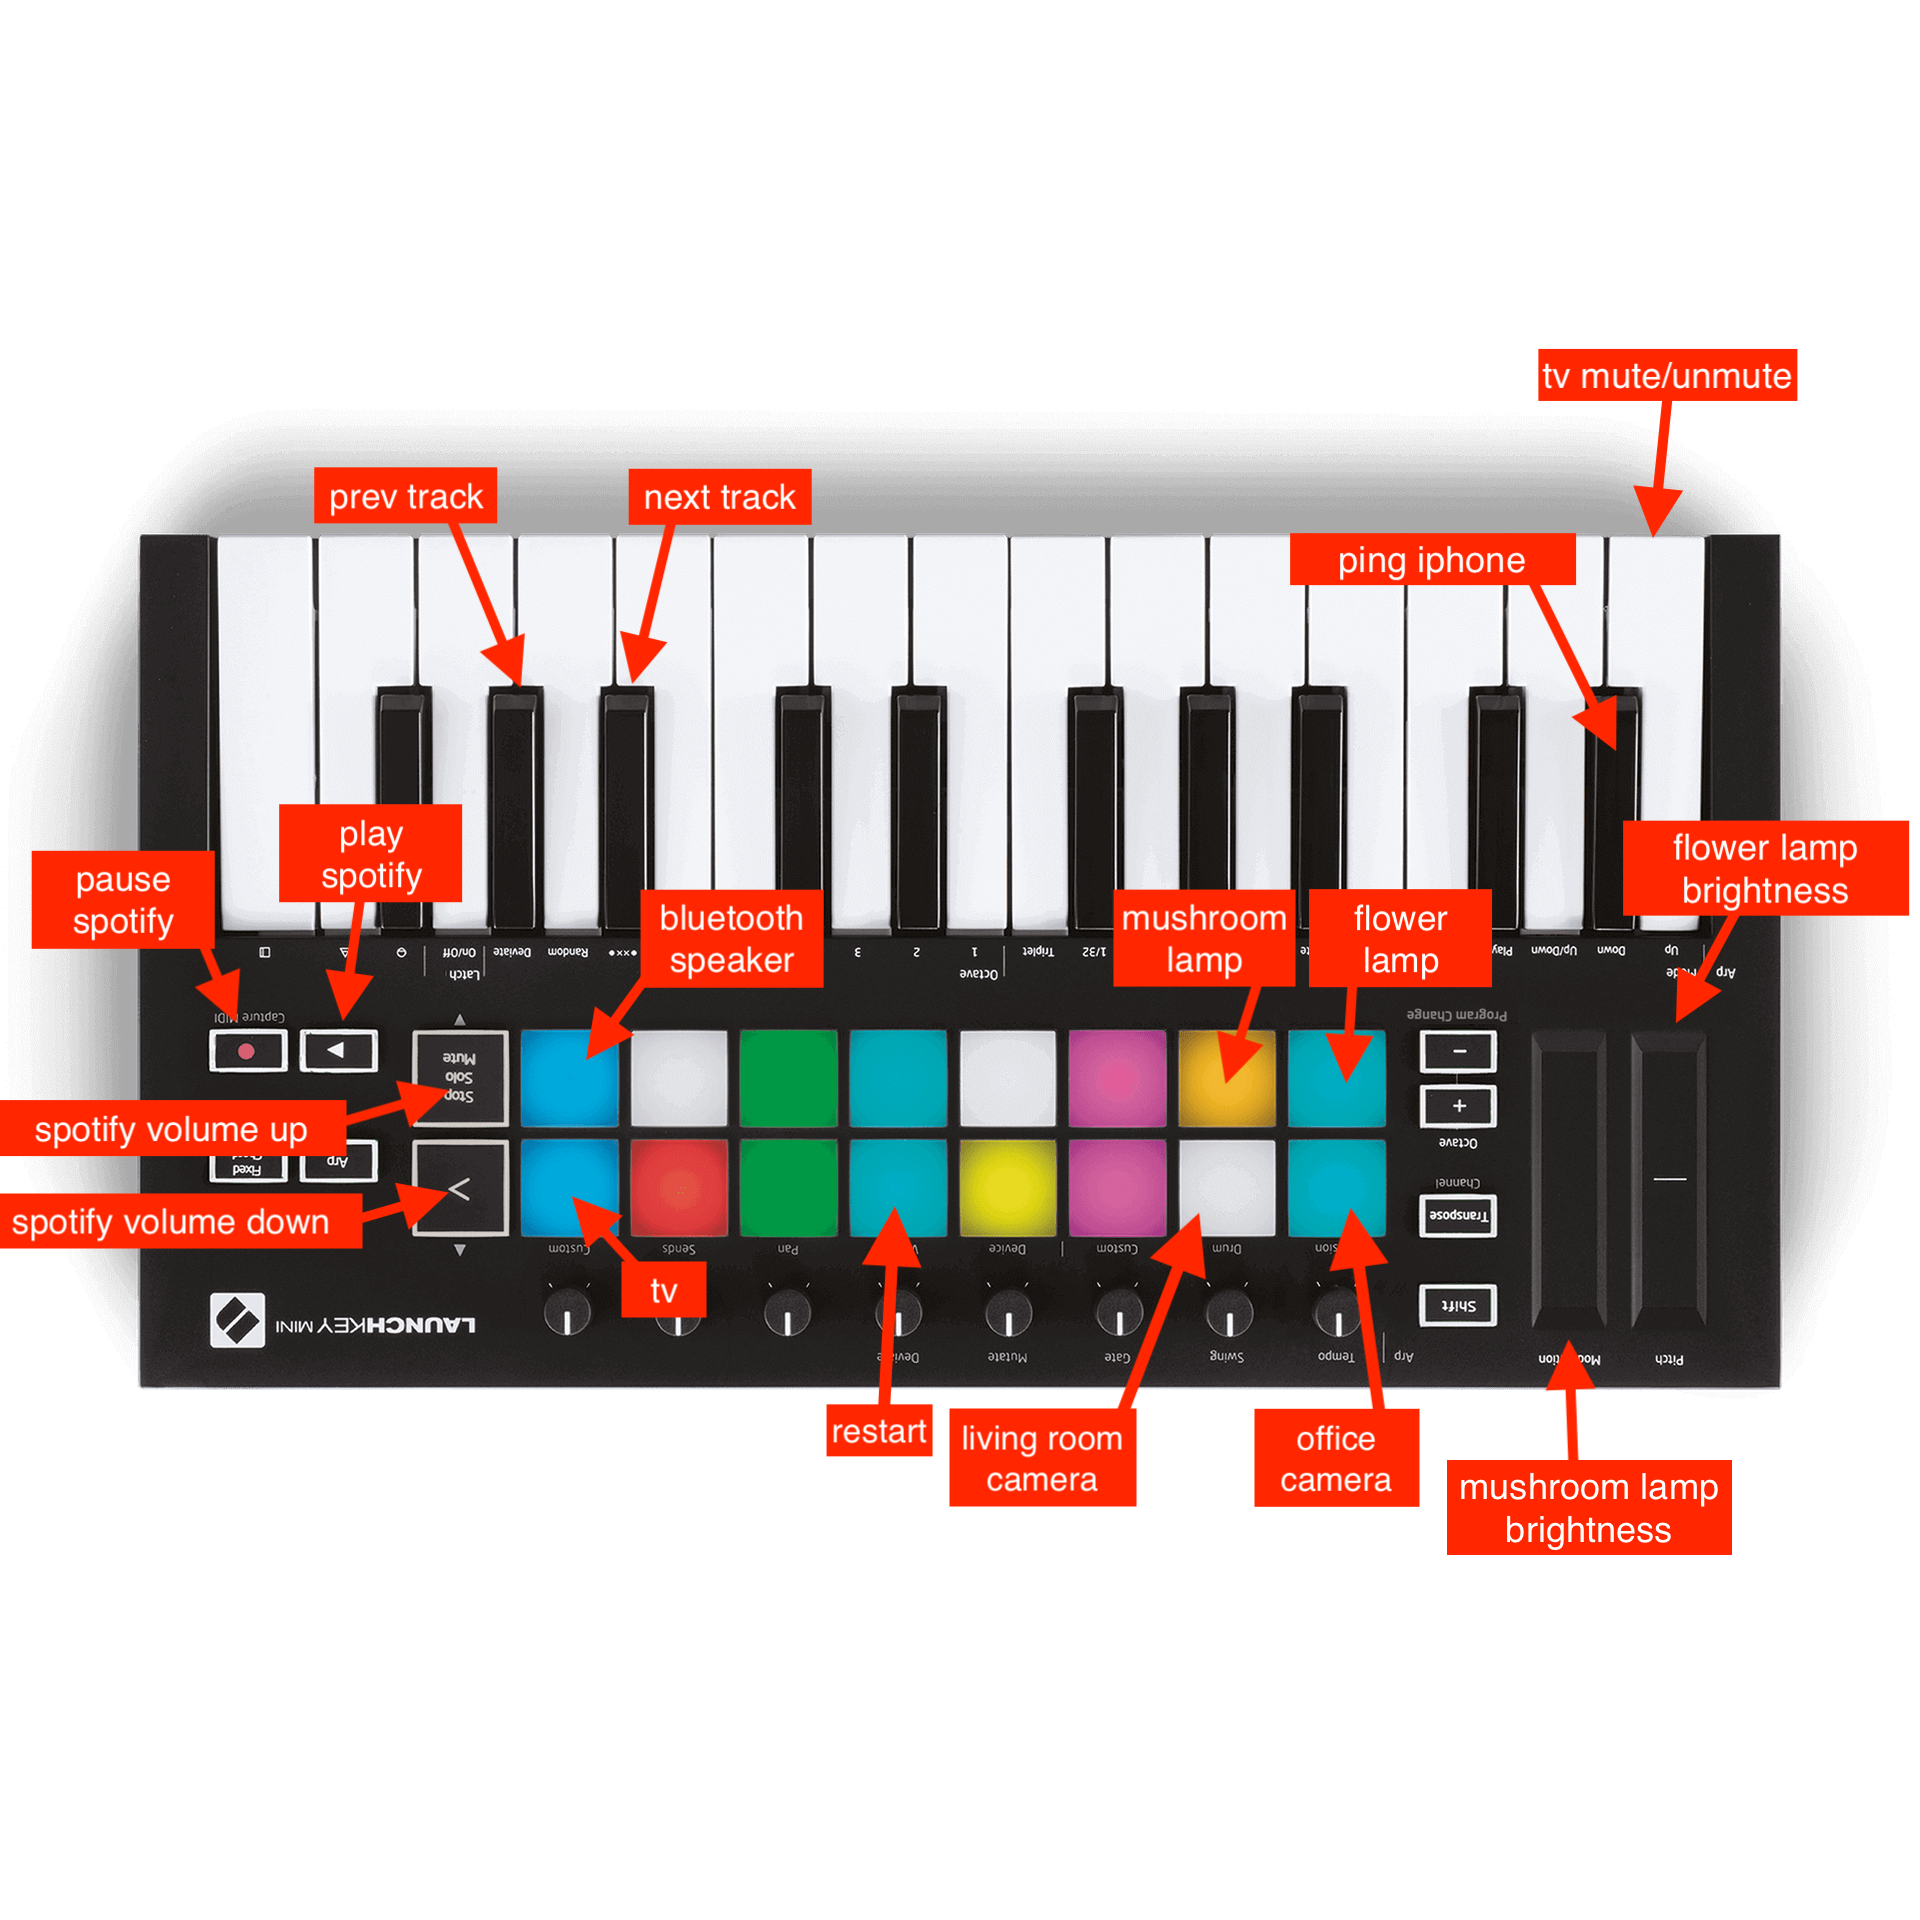
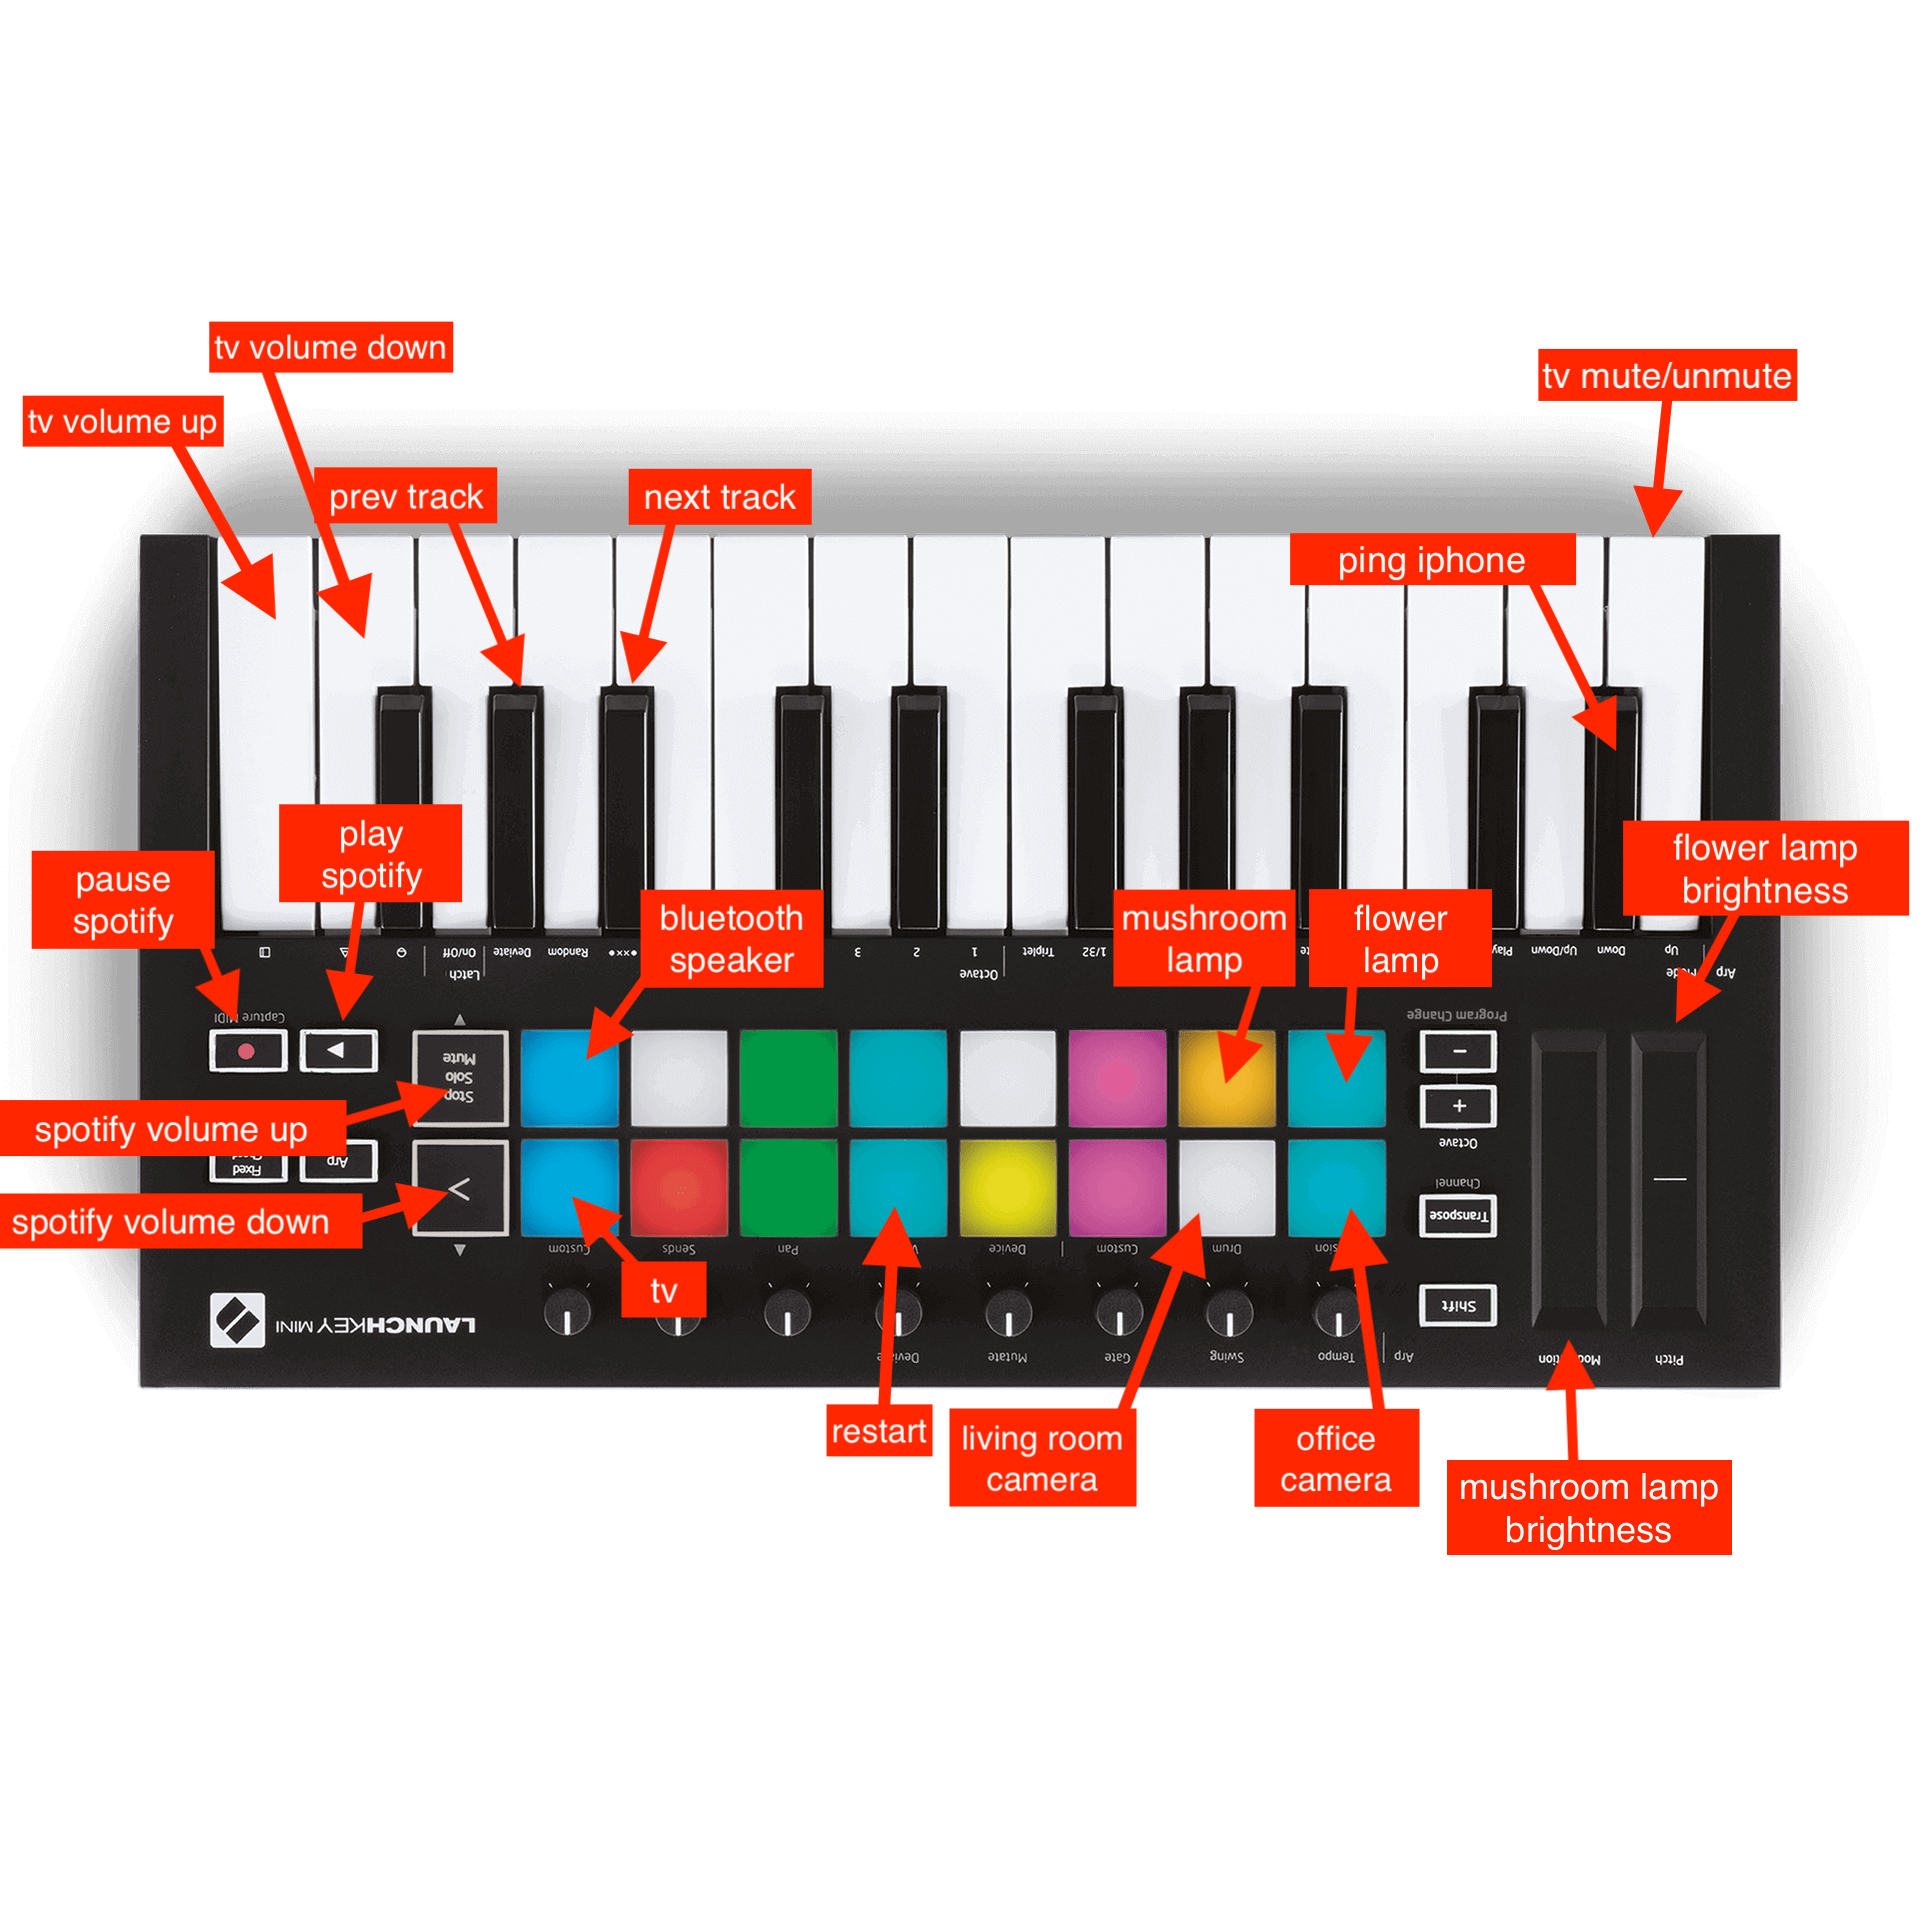
add support for tv volume up + down

Changed region(s): [[0.0, 0.1562, 0.25, 0.3438]]

diff --git a/bindings.go b/bindings.go
@@ -77,6 +77,8 @@ var noteBindings = []noteBinding{
 	}},
 
 	// Keys
+	{KeyChannel, midiControls.KeyVolumeUp, "TV VOLUME UP", tvVolumeUp},
+	{KeyChannel, midiControls.KeyVolumeDown, "TV VOLUME DOWN", tvVolumeDown},
 	{KeyChannel, midiControls.KeyNextTrack, "NEXT TRACK", spotifyNext},
 	{KeyChannel, midiControls.KeyPrevTrack, "PREV TRACK", spotifyPrev},
 	{KeyChannel, midiControls.KeyMuteTV, "MUTE TV", func() { tvToggleMute() }},
@@ -109,8 +111,8 @@ var ccBindings = []ccBinding{
 			midiSetPadColor(midiControls.PadMushroomLamp, midiPadColorForState(on))
 		}
 	}},
-	{KnobChannel, midiControls.VolumeUp, "VOL UP", func() { spotifyAdjustVolume(10) }, nil},
-	{KnobChannel, midiControls.VolumeDown, "VOL DOWN", func() { spotifyAdjustVolume(-10) }, nil},
+	{KnobChannel, midiControls.MusicVolumeUp, "MUSIC VOL UP", func() { spotifyAdjustVolume(5) }, nil},
+	{KnobChannel, midiControls.MusicVolumeDown, "MUSIC VOL DOWN", func() { spotifyAdjustVolume(-5) }, nil},
 	{TransportChannel, midiControls.Play, "PLAY", spotifyPlay, nil},
 	{TransportChannel, midiControls.Stop, "PAUSE", spotifyPause, nil},
 }

diff --git a/midi.go b/midi.go
@@ -49,14 +49,16 @@ var midiControls = struct {
 	PadTV               uint8
 	PadRestartServer    uint8
 
-	KeyNextTrack uint8
-	KeyPrevTrack uint8
-	KeyMuteTV    uint8
-	KeyPingPhone uint8
+	KeyNextTrack  uint8
+	KeyPrevTrack  uint8
+	KeyMuteTV     uint8
+	KeyPingPhone  uint8
+	KeyVolumeUp   uint8
+	KeyVolumeDown uint8
 
 	BrightnessMushroomLamp uint8
-	VolumeUp               uint8
-	VolumeDown             uint8
+	MusicVolumeUp          uint8
+	MusicVolumeDown        uint8
 	Play                   uint8
 	Stop                   uint8
 }{
@@ -68,14 +70,16 @@ var midiControls = struct {
 	PadTV:               51,
 	PadRestartServer:    48,
 
-	KeyNextTrack: 66,
-	KeyPrevTrack: 68,
-	KeyMuteTV:    48,
-	KeyPingPhone: 49,
+	KeyNextTrack:  66,
+	KeyPrevTrack:  68,
+	KeyMuteTV:     48,
+	KeyPingPhone:  49,
+	KeyVolumeUp:   71,
+	KeyVolumeDown: 72,
 
 	BrightnessMushroomLamp: 1,
-	VolumeUp:               105,
-	VolumeDown:             104,
+	MusicVolumeUp:          105,
+	MusicVolumeDown:        104,
 	Play:                   115,
 	Stop:                   117,
 }

diff --git a/tv.go b/tv.go
@@ -63,3 +63,21 @@ func tvIsConnected() bool {
 	}
 	return strings.Contains(string(out), "connected")
 }
+
+func tvVolumeUp() {
+	out, err := exec.Command("adb", "-s", ADBAddr, "shell", "input", "keyevent", "24").CombinedOutput()
+	if err != nil {
+		fmt.Printf("  TV → volume up error: %v (%s)\n", err, strings.TrimSpace(string(out)))
+		return
+	}
+	fmt.Println("  TV → volume up")
+}
+
+func tvVolumeDown() {
+	out, err := exec.Command("adb", "-s", ADBAddr, "shell", "input", "keyevent", "25").CombinedOutput()
+	if err != nil {
+		fmt.Printf("  TV → volume down error: %v (%s)\n", err, strings.TrimSpace(string(out)))
+		return
+	}
+	fmt.Println("  TV → volume down")
+}
